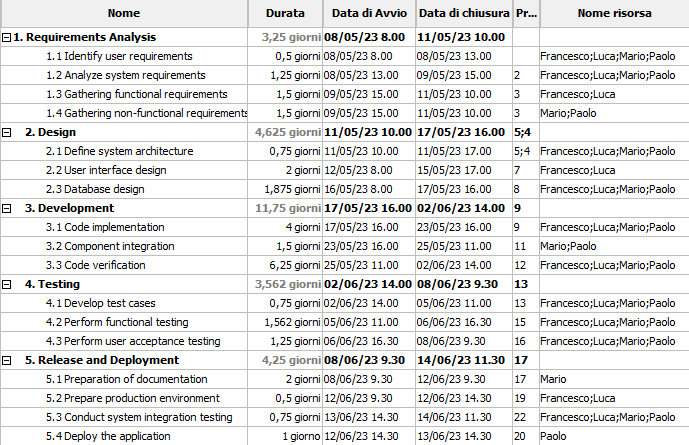
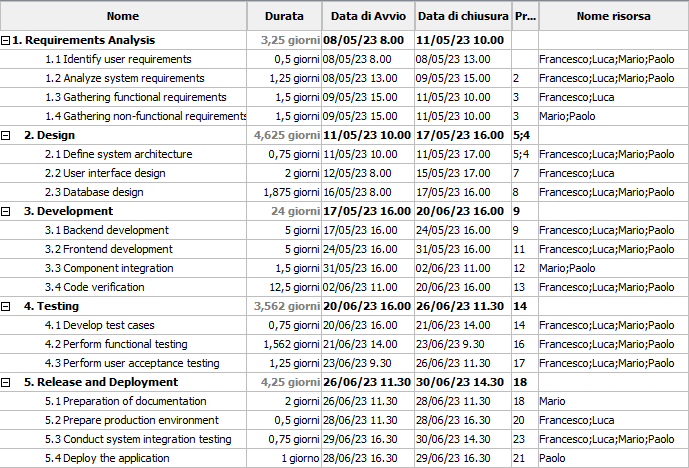
Insert of frontend in the estimationV2

diff --git a/EstimationV2.md b/EstimationV2.md
@@ -7,7 +7,7 @@ Version: 2
 # Estimation approach
 Consider the EZWallet  project in FUTURE version (as proposed by the team), assume that you are going to develop the project INDEPENDENT of the deadlines of the course. 
 
-For these estimations we are considering only the new part of the project that has to be implemented without contemplate the part already implemented in the first version. Moreover in these previsions for the coding part we are appraising only the development of the back-end of the application. For simplicity, we are thinking that the back-end is unique for web, android and iOS application without considering the native development part for android and iOS and the integration part with their respective APIs.
+For these estimations we are considering only the new part of the project that has to be implemented without contemplate the part already implemented in the first version. Moreover in these previsions for the coding part we are appraising, for simplicity, that the back-end is unique for web, android and iOS application without considering the native development part for android and iOS and the integration part with their respective APIs.
 
 # Estimate by size
 ### 
@@ -15,12 +15,12 @@ For these estimations we are considering only the new part of the project that h
 
 |             | Estimate                        |             
 | ----------- | ------------------------------- |  
-| NC =  Estimated number of modules to be developed   | 40 |    
-| A = Estimated average size per class, in LOC        | 30 LOC/NC | 
-| S = Estimated size of project, in LOC (= NC * A)    | 1200 LOC |
-| E = Estimated effort, in person hours (here use productivity 10 LOC per person hour)  | 120 ph |   
-| C = Estimated cost, in euro (here use 1 person hour cost = 30 euro) | 3600 EUR | 
-| Estimated calendar time, in calendar weeks (Assume team of 4 people, 8 hours per day, 5 days per week ) | 0,75 week |               
+| NC =  Estimated number of modules to be developed   | 100 |    
+| A = Estimated average size per class, in LOC        | 32 LOC/NC | 
+| S = Estimated size of project, in LOC (= NC * A)    | 3200 LOC |
+| E = Estimated effort, in person hours (here use productivity 10 LOC per person hour)  | 320 ph |   
+| C = Estimated cost, in euro (here use 1 person hour cost = 30 euro) | 9600 EUR | 
+| Estimated calendar time, in calendar weeks (Assume team of 4 people, 8 hours per day, 5 days per week ) | 2 week |               
 
 For the number of modules was chosen the number of functions.
 
@@ -31,11 +31,11 @@ For the number of modules was chosen the number of functions.
 | Requirement document | (5 days * 2 people) -> 80 ph |
 | GUI prototype | (2 days * 2 people) -> 32 ph |
 | Design document | (3 days * 2 people) -> 48 ph |
-| Code | (4 days * 4 people) 128 ph |
-| Unit tests | (5 days * 4 people) 160 ph |
-| API tests | (5 days * 4 people) 160 ph |
+| Code | (4 days * 4 people) 320 ph |
+| Unit tests | (5 days * 4 people) 350 ph |
+| API tests | (5 days * 4 people) 300 ph |
 | Management documents | (1 day * 1 person) -> 8 ph  |
-| TOT | 616 ph -> 3,85 weeks |
+| TOT | 1138 ph -> 7,11 weeks |
 
 
 
@@ -52,15 +52,19 @@ For the number of modules was chosen the number of functions.
     2. Design
         2.1 Define system architecture
         2.2 User interface design
-            2.2.1  GUI prototype for web application
-            2.2.2  GUI prototype for Android application
-            2.2.3  GUI prototype for iOS application
+            2.2.1  Web UI/UX desing
+            2.2.2  Android UI/UX desing
+            2.2.3  iOS UI/UX desing
         2.3 Database design
 
     3. Development
-        3.1 Code implementation
-        3.2 Component integration
-        3.3 Code verification
+        3.1 Backend Development
+		3.2 Frontend Development
+            3.2.1 Web frontend development
+            3.2.2 Android frontend development
+            3.2.3 iOS frontend development
+        3.3 Component integration
+        3.4 Code verification
 
     4. Testing
         4.1 Develop test cases
@@ -91,9 +95,10 @@ For the number of modules was chosen the number of functions.
 | User interface design | 32 ph |
 | Database design | 60 ph |
 | Development | |
-| Code implementation | 128 ph |
-| Component integration | 24 ph |
-| Code verification | 200 ph |
+| Backend Development | 160 ph |
+| Frontend Development | 160 ph |
+| Component integration | 50 ph |
+| Code verification | 400 ph |
 | Testing | |
 | Develop test cases | 24 ph |
 | Perform functional testing | 50 ph |
@@ -107,7 +112,7 @@ For the number of modules was chosen the number of functions.
 | Provide technical support | 24 ph/week |
 | Fix bugs and troubleshoot issues | 32 ph/month |
 | Implement updates and upgrades | - |
-| TOT | 742 ph |
+| TOT | 1160 ph |
 
 For this estimation we have insert also the deployment and the maintanance and support parts to give an image of the entire development of the application.
 
@@ -125,6 +130,6 @@ The estimation by activity decomposition, as that with product decomposition, ta
 
 |             | Estimated effort                        |   Estimated duration |          
 | ----------- | ------------------------------- | ---------------|
-| estimate by size | 120 ph | 0,75 week|
-| estimate by product decomposition | 616 ph | 3,85 weeks |
-| estimate by activity decomposition | 742 ph | 6 weeks |
+| estimate by size | 320 ph | 2 week|
+| estimate by product decomposition | 1138 ph | 7,11 weeks |
+| estimate by activity decomposition | 742 ph | 8 weeks |
